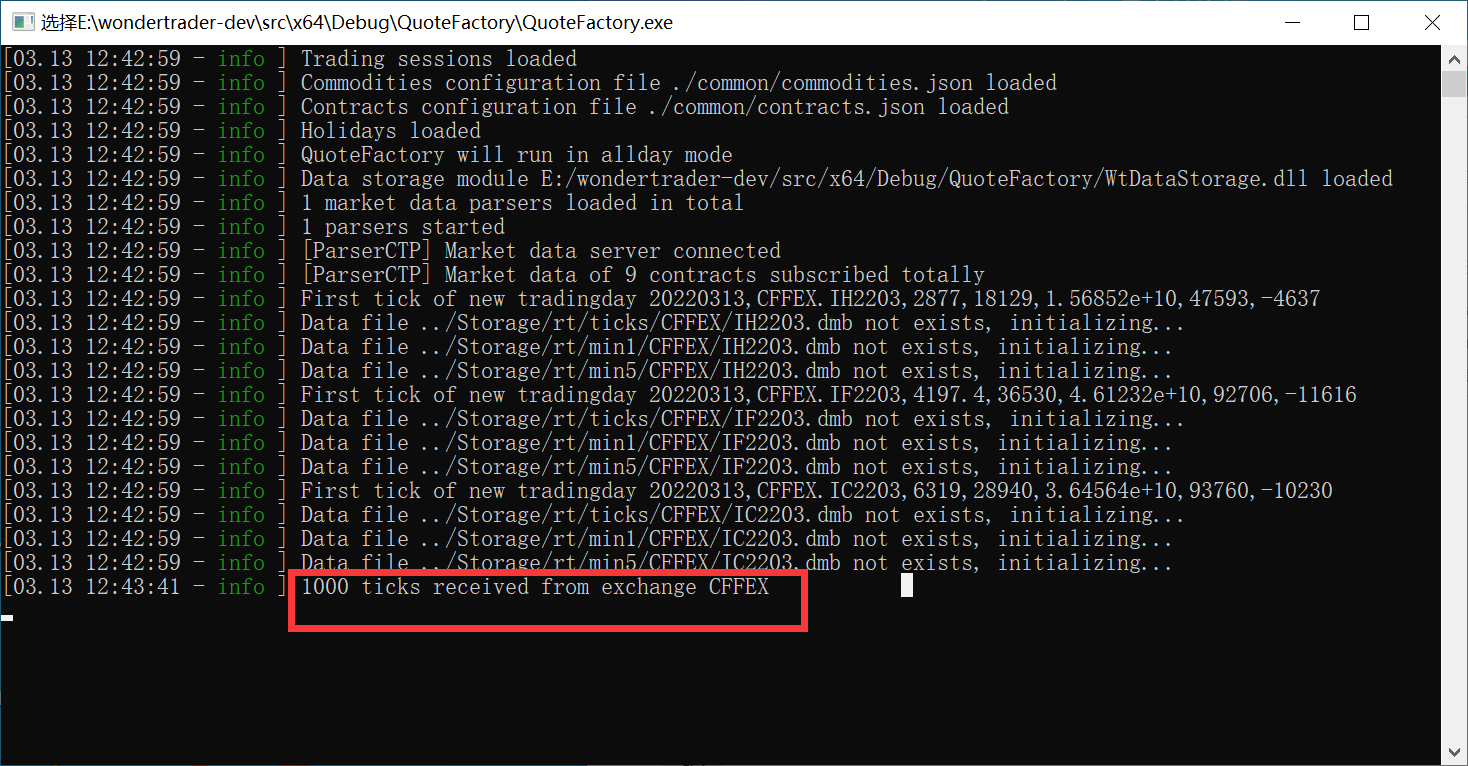
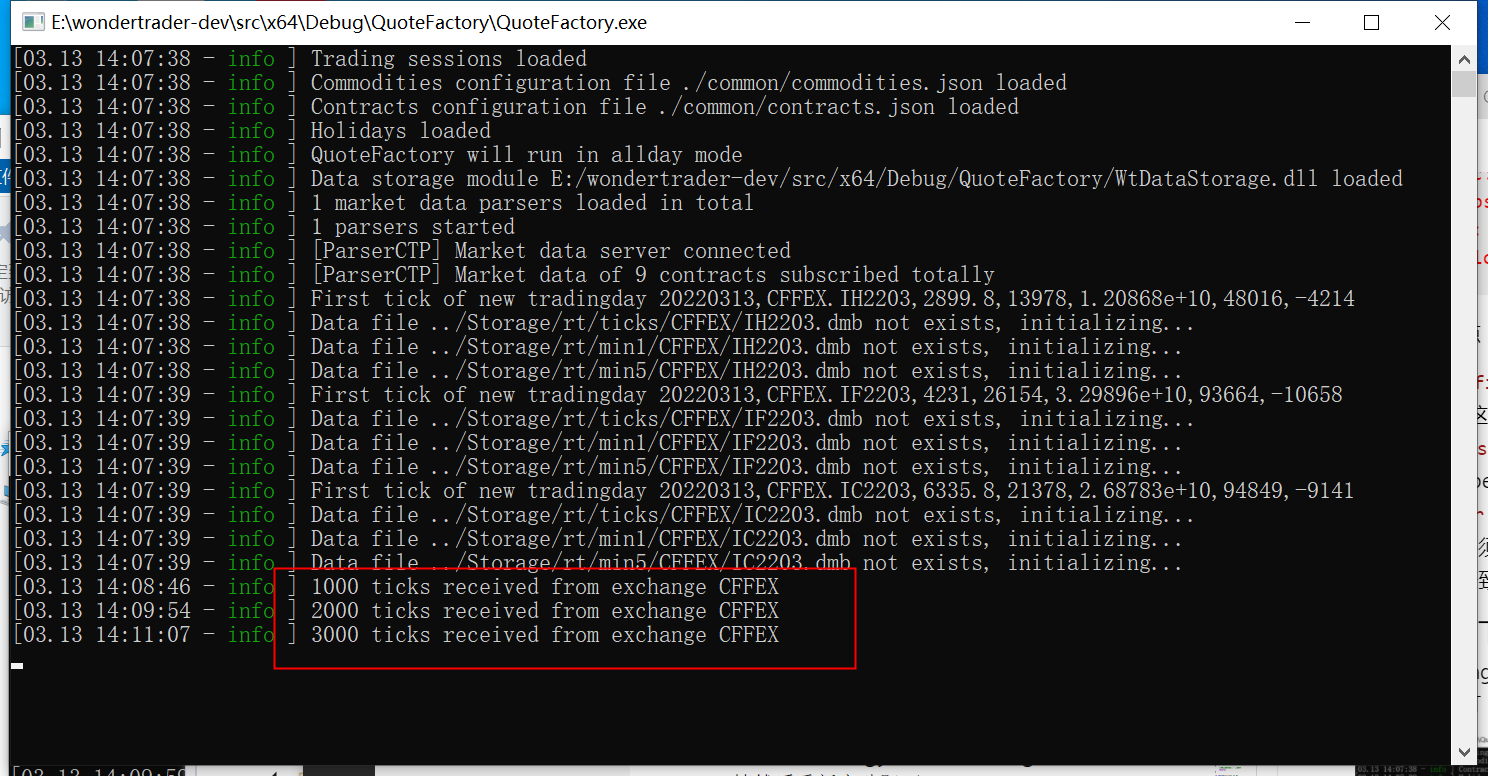
修改CTA策略文件添加on_bar

Changed region(s): [[0.0, 0.0, 1.0, 1.0]]

diff --git a/docs/wtcpp/folder03/file06.md b/docs/wtcpp/folder03/file06.md
@@ -237,7 +237,55 @@ writer:
 
 ## 重写CTA策略
 
-为了方便调试, 我对 "WtStraDualThrust.cpp" 做了细微改动, 主要是打印回调记录, 源码如下
+为了方便调试, 我对 "WtStraDualThrust" 做了细微改动, 主要是打印回调记录, 源码如下
+
+**WtStraDualThrust.h**
+
+```cpp
+#pragma once
+#include "../Includes/CtaStrategyDefs.h"
+
+class WtStraDualThrust : public CtaStrategy
+{
+public:
+	WtStraDualThrust(const char* id);
+	virtual ~WtStraDualThrust();
+
+public:
+	virtual const char* getFactName() override;
+
+	virtual const char* getName() override;
+
+	virtual bool init(WTSVariant* cfg) override;
+
+	virtual void on_schedule(ICtaStraCtx* ctx, uint32_t curDate, uint32_t curTime) override;
+
+	virtual void on_init(ICtaStraCtx* ctx) override;
+
+	virtual void on_tick(ICtaStraCtx* ctx, const char* stdCode, WTSTickData* newTick) override;
+
+	virtual void on_bar(ICtaStraCtx* ctx, const char* stdCode, const char* period, WTSBarStruct* newBar) override;
+
+
+private:
+	//指标参数
+	double		_k1;
+	double		_k2;
+	uint32_t	_days;
+
+	//数据周期
+	std::string _period;
+	//K线条数
+	uint32_t	_count;
+
+	//合约代码
+	std::string _code;
+
+	bool		_isstk;
+};
+```
+
+**WtStraDualThrust.h**
 
 ```cpp
 #include "WtStraDualThrust.h"
@@ -413,6 +461,12 @@ void WtStraDualThrust::on_tick(ICtaStraCtx* ctx, const char* stdCode, WTSTickDat
 {
 	//没有什么要处理
 	ctx->stra_log_info(fmt::format("回调 on_tick, code: {}, date: {}, time: {}", newTick->code(), ctx->stra_get_date(), ctx->stra_get_time()).c_str());
+}
+
+void WtStraDualThrust::on_bar(ICtaStraCtx* ctx, const char* stdCode, const char* period, WTSBarStruct* newBar)
+{
+	//没有什么要处理
+	ctx->stra_log_info(fmt::format("回调 on_bar, code: {}, date: {}, time: {}", stdCode, ctx->stra_get_date(), ctx->stra_get_time()).c_str());
 }
 ```
 
@@ -593,6 +647,6 @@ bspolicy: actpolicy.yaml    #开平策略配置文件
 
 ## 全部配置成功示例如下
 
-不仅要保证 `on_tick` 回调成功, 更要保证分钟闭合后 `on_schedule` 回调成功
+不仅要保证 `on_tick` 回调成功, 更要保证分钟闭合后 `on_schedule` 和 `on_bar` 回调成功
 
-![](../../assets/images/wt/wt031.png)
+![](../../assets/images/wt/wt032.png)

diff --git a/docs/wtcpp/folder03/file07.md b/docs/wtcpp/folder03/file07.md
@@ -2,3 +2,49 @@
 
 source: `{{ page.path }}`
 
+为甚么策略初始化总是要单独讲解呢, 因为策略初始化对后续触发 `on_tick` 和 `on_shcedule` 和 `on_bar` 很重要
+
+## on_init
+
+在策略 `on_init` 中主要做了3件事
+
+1. 获取 CFFEX.IC.2203 的tick数据(`code` 是通过配置文件中的参数传入的品种代码, 这里是指 `CFFEX.IC.2203`)
+2. 获取 CFFEX.IC.2203 的bar数据
+3. 主动订阅 CFFEX.IH.2203 tick数据
+
+```cpp
+void WtStraDualThrust::on_init(ICtaStraCtx* ctx)
+{
+	ctx->stra_log_info(fmt::format("回调 on_init, date: {}, time: {}", ctx->stra_get_date(), ctx->stra_get_time()).c_str());
+
+	std::string code = _code;
+	if (_isstk)
+		code += "-";
+
+	// 获取 CFFEX.IC.2203 的tick数据
+	WTSTickSlice* ticks = ctx->stra_get_ticks(_code.c_str(), 30);
+	if (ticks)
+		ticks->release();
+
+	// 获取 CFFEX.IC.2203 的bar数据
+	WTSKlineSlice *kline1 = ctx->stra_get_bars(code.c_str(), _period.c_str(), _count, true);
+	if (kline1 == NULL)
+	{
+		//这里可以输出一些日志
+		return;
+	}
+	kline1->release();
+
+	// 主动订阅 CFFEX.IH.2203 tick数据
+	ctx->stra_sub_ticks("CFFEX.IH.2203");
+}
+```
+
+为什么控制台显示的 `on_tick` 回调只有 `CFFEX.IH.2203`, `on_bar` 回调只有 `CFFEX.IC.2203` 呢?(这里和 HFT 仿真区别很大)
+接下来详细解析这三步都做了哪些事情
+
+## stra_get_ticks
+
+## stra_get_bars
+
+## stra_sub_ticks
